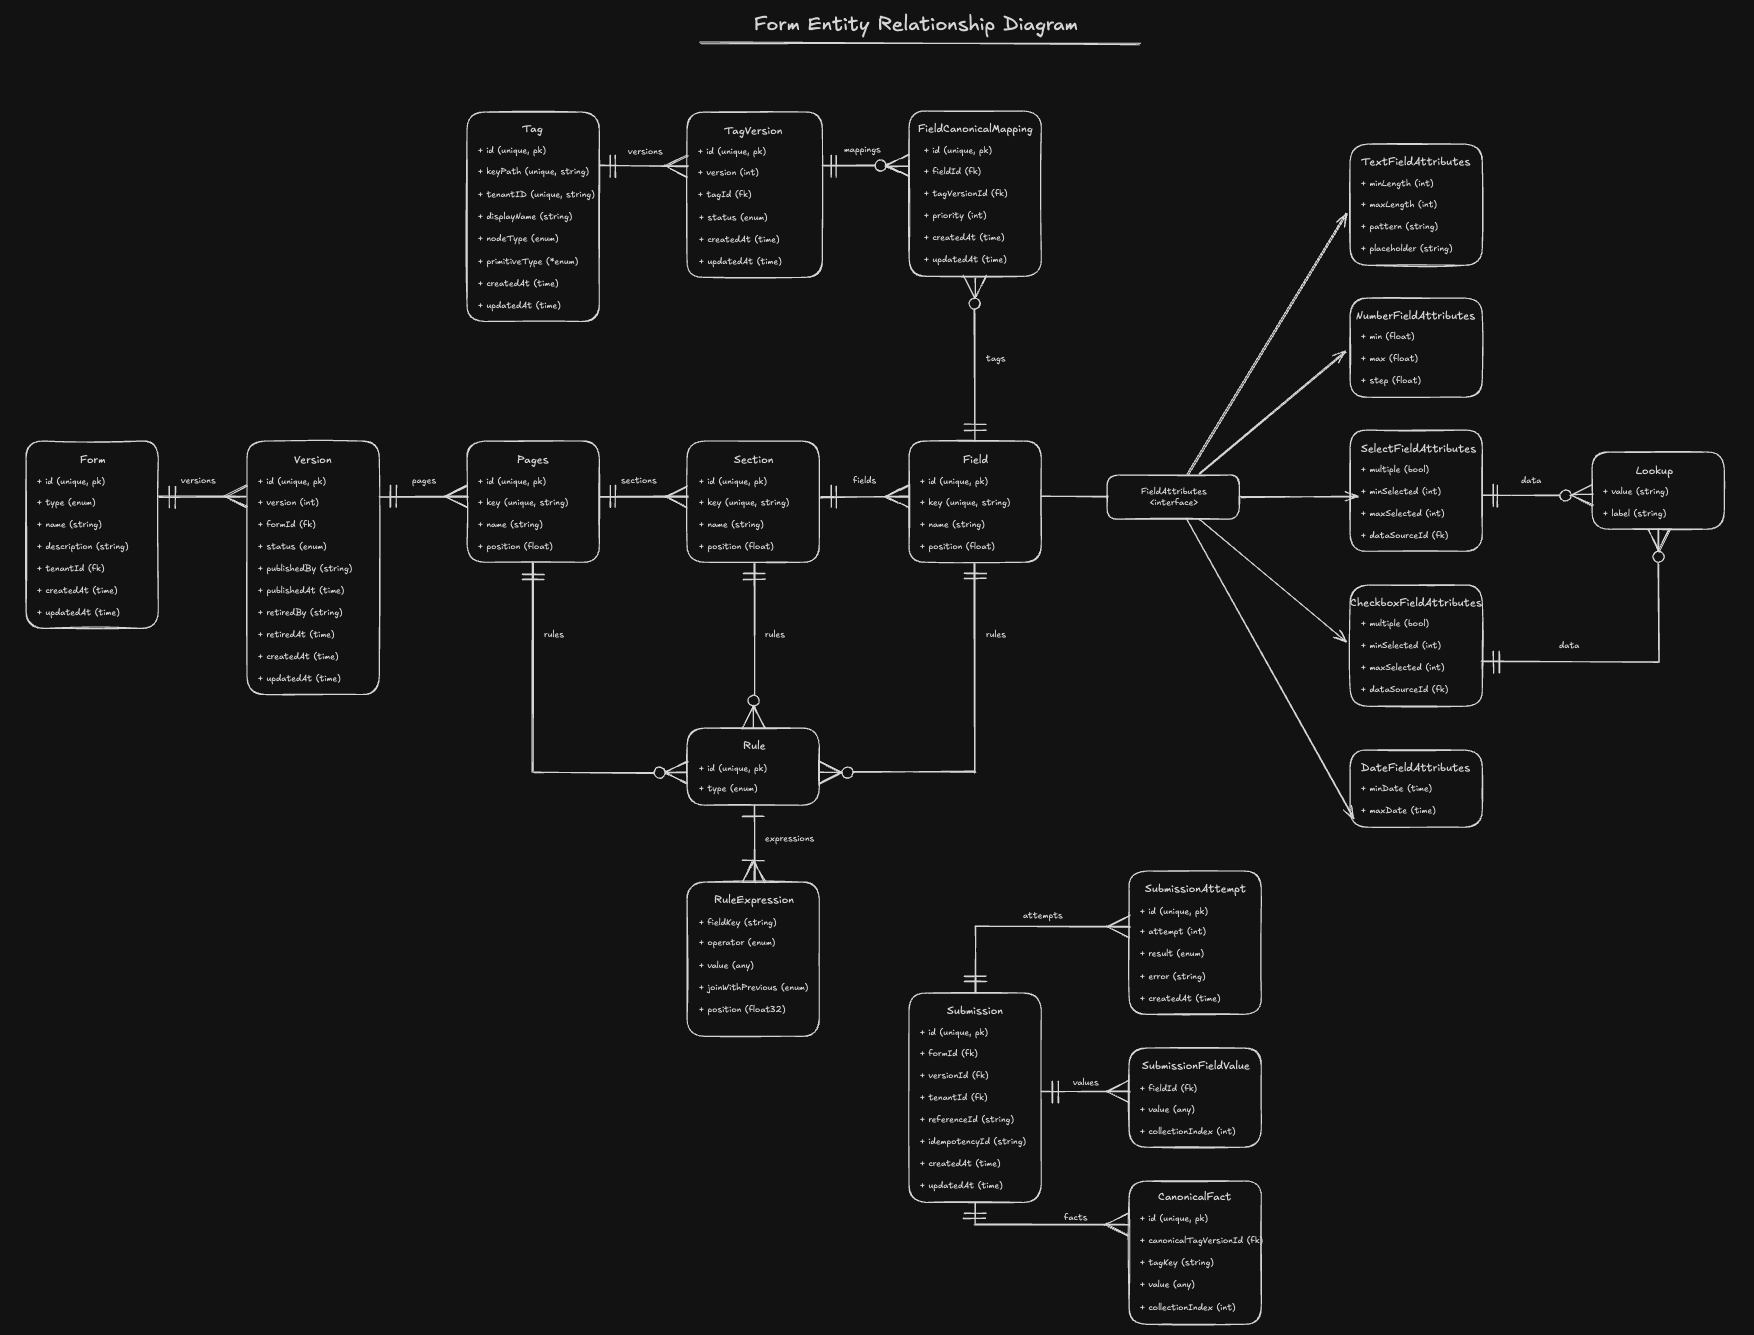
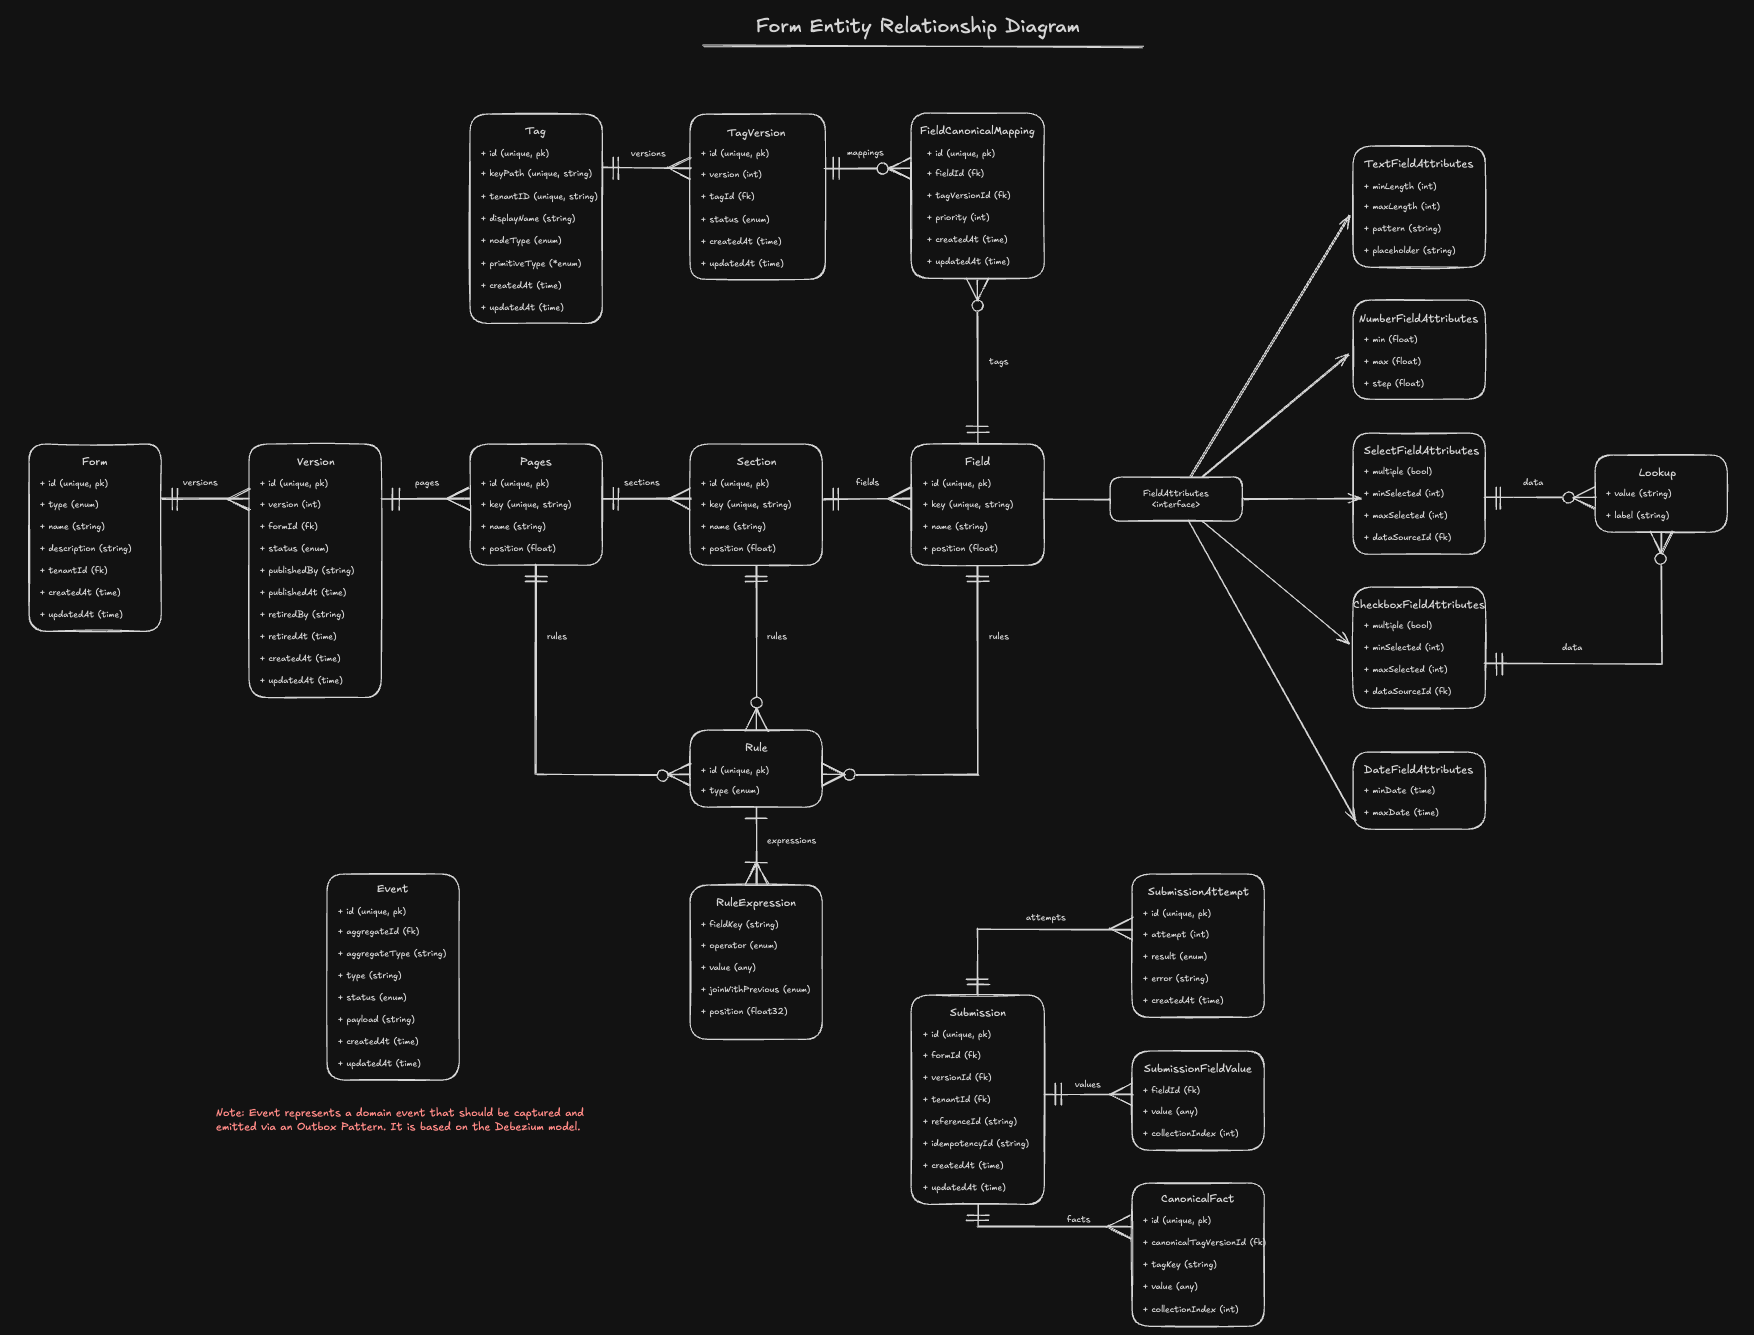
docs | update form erd

diff --git a/backend/services/forms/internal/core/domain/event.go b/backend/services/forms/internal/core/domain/event.go
@@ -1,12 +1,50 @@
 package domain
 
-import "iter"
+import (
+	"iter"
+	"time"
+)
+
+// NOTE: Based on the Debezium Outbox Pattern (https://debezium.io/documentation/reference/stable/transformations/outbox-event-router.html)
+
+type EventID string
+
+type AggregateType string
+
+type EventType string
+
+type EventStatus string
+
+const (
+	EventStatusPending   EventStatus = "pending"
+	EventStatusCompleted EventStatus = "completed"
+	EventStatusError     EventStatus = "error"
+)
+
+type EventPayload map[string]any
 
 type Event struct {
+	ID            EventID
+	AggregateID   string
+	AggregateType AggregateType
+	Type          EventType
+	Status        EventStatus
+	Payload       EventPayload
+	CreatedAt     time.Time
+	UpdatedAt     time.Time
 }
 
-func NewEvent() Event {
-	return Event{}
+func NewEvent(aggregateType AggregateType, aggregateID string, eventType EventType, payload EventPayload) Event {
+	return Event{
+		ID:            EventID(NewID()),
+		AggregateID:   aggregateID,
+		AggregateType: aggregateType,
+		Type:          eventType,
+		Status:        EventStatusPending,
+		Payload:       payload,
+		CreatedAt:     Now(),
+		UpdatedAt:     Now(),
+	}
 }
 
 type withEvents struct {
@@ -18,8 +56,10 @@ func (we *withEvents) AddEvent(e Event) {
 }
 
 func (we *withEvents) DrainEvents() iter.Seq[Event] {
+	events := we.events
+	we.events = nil
 	return func(yield func(Event) bool) {
-		for _, e := range we.events {
+		for _, e := range events {
 			if !yield(e) {
 				return
 			}

diff --git a/backend/services/forms/internal/core/domain/submission.go b/backend/services/forms/internal/core/domain/submission.go
@@ -21,6 +21,10 @@ const (
 	SubmissionStatusAccepted SubmissionStatus = "accepted"
 	SubmissionStatusRejected SubmissionStatus = "rejected"
 	SubmissionStatusFailed   SubmissionStatus = "failed"
+
+	AggregateTypeSubmission     AggregateType = "submission"
+	EventTypeSubmissionAccepted EventType     = "accepted"
+	EventTypeSubmissionRejected EventType     = "rejected"
 )
 
 var (
@@ -40,6 +44,7 @@ type Submission struct {
 	Values        []*SubmissionFieldValue
 	Facts         []*CanonicalFact
 	Attempts      []*SubmissionAttempt
+	withEvents
 }
 
 func NewSubmission(
@@ -116,21 +121,30 @@ func (s *Submission) Accept(facts []*CanonicalFact) {
 	s.Status = SubmissionStatusAccepted
 	s.Facts = facts
 	s.UpdatedAt = Now()
+	s.addAttempt(s.Status, nil)
+	// FIXME: Add domain event that the submission was accepted.
 }
 
 func (s *Submission) Fail(err error) {
 	s.Status = SubmissionStatusFailed
 	s.UpdatedAt = Now()
+	s.addAttempt(s.Status, err)
 }
 
 func (s *Submission) Reject(err error) {
 	s.Status = SubmissionStatusRejected
 	s.UpdatedAt = Now()
+	s.addAttempt(s.Status, err)
+	// FIXME: Add domain event that the submission was rejected.
 }
 
 func (s *Submission) Reset() {
 	s.Status = SubmissionStatusPending
 	s.UpdatedAt = Now()
+}
+
+func (s *Submission) addAttempt(status SubmissionStatus, err error) {
+	s.Attempts = append(s.Attempts, NewSubmissionAttempt(len(s.Attempts)+1, string(status), err))
 }
 
 func (s *Submission) ToFactMap() map[string]any {

diff --git a/backend/services/forms/internal/core/ports/secondary.go b/backend/services/forms/internal/core/ports/secondary.go
@@ -10,6 +10,7 @@ import (
 
 type Repository struct {
 	Database     database.Database
+	Outbox       Outbox
 	Tags         TagsRepository
 	TagVersions  TagVersionsRepository
 	Forms        FormsRepository
@@ -54,6 +55,11 @@ type TagVersionsRepository interface {
 	FindByID(context.Context, domain.TagVersionID) (*domain.TagVersion, error)
 	FindNextVersionNumber(context.Context, domain.TagID) (int, error)
 	Upsert(context.Context, *domain.TagVersion) (*domain.TagVersion, error)
+}
+
+type Outbox interface {
+	Find(context.Context) ([]*domain.Event, error)
+	Upsert(context.Context, *domain.Event) (*domain.Event, error)
 }
 
 type Strategies struct {